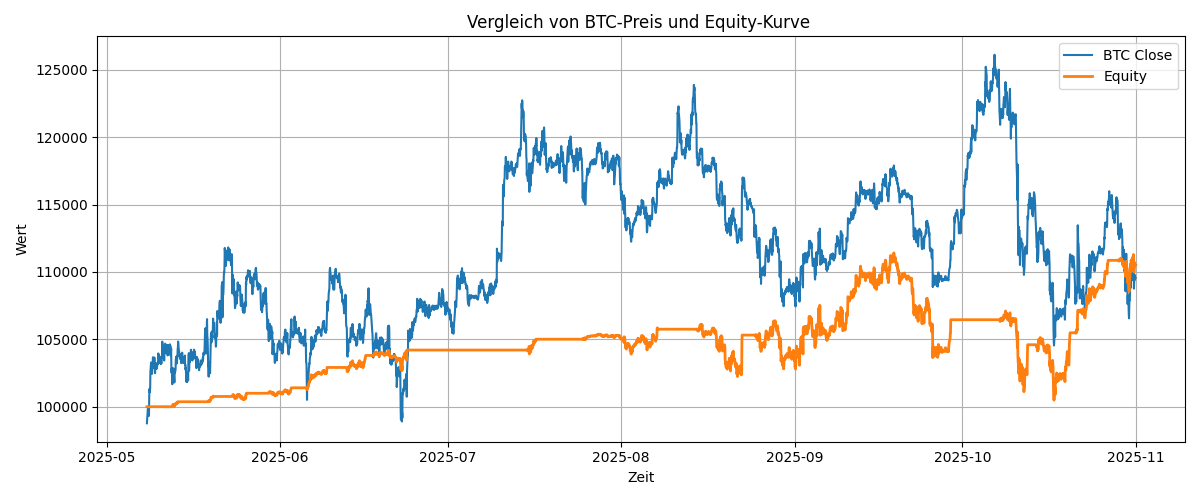
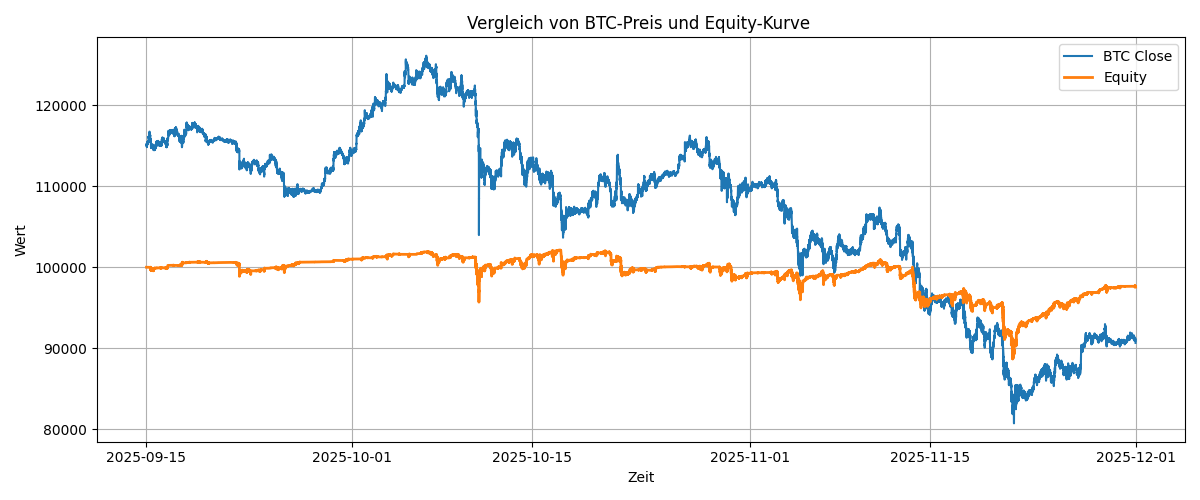
Backtesting beste variante

diff --git a/experiments/exp_1_2/scripts/09_model_deployment/paper_trading.py b/experiments/exp_1_2/scripts/09_model_deployment/paper_trading.py
@@ -1,0 +1,296 @@
+import os
+import yaml
+import importlib.util
+import torch
+import torch.nn as nn
+import time
+from datetime import datetime, timedelta, timezone
+import numpy as np
+from alpaca.trading.client import TradingClient
+from alpaca.trading.requests import MarketOrderRequest
+from alpaca.trading.enums import OrderSide, TimeInForce
+from binance.client import Client
+import pandas as pd
+from pathlib import Path
+import joblib
+
+BASE_DIR = Path(__file__).resolve().parent
+SCALER_DIR = BASE_DIR / "../../scaler"
+SCALER_DIR = SCALER_DIR.resolve()
+
+scaler = joblib.load(SCALER_DIR / "scaler.joblib")
+
+THIS_DIR = os.path.dirname(os.path.abspath(__file__))
+EXP_DIR = os.path.abspath(os.path.join(THIS_DIR, "..", ".."))
+FEATURES_PY_PATH = os.path.join(EXP_DIR, "scripts", "03_pre_split_prep", "features.py")
+params = yaml.safe_load(open("../../conf/params.yaml"))
+keys = yaml.safe_load(open("../../conf/keys.yaml"))
+
+spec = importlib.util.spec_from_file_location("features_module", FEATURES_PY_PATH)
+features_module = importlib.util.module_from_spec(spec) if spec else None
+if spec and spec.loader:
+    spec.loader.exec_module(features_module)
+else:
+    raise RuntimeError(f"Could not load features.py from {FEATURES_PY_PATH}")
+
+generate_features = getattr(features_module, "generate_features")
+
+symbols = params["DATA_ACQUISITION"]["SYMBOLS"]
+#Data Prep params
+ema_periods = params['DATA_PREP']['EMA_PERIODS']
+return_periods = params['DATA_PREP']['RETURN_PERIODS']
+rsi_atr_window = params['DATA_PREP']['RSI_ATR_WINDOW']
+
+#Data Model params
+model_path = params['MODELING']['SAVE_MODEL']
+seq = params['MODELING']['SEQUENCE']
+input_size = params['MODELING']['INPUT_SIZE']
+
+#Api keya
+api_key_id = keys['KEYS']['APCA-API-KEY-ID-Data']
+api_secret = keys['KEYS']['APCA-API-SECRET-KEY-Data']
+alpaca_base = "https://paper-api.alpaca.markets"
+
+#Nutzung von GPU oder CPU
+DEVICE = torch.device("cuda" if torch.cuda.is_available() else "cpu")
+
+class Net(nn.Module):
+    def __init__(self, input_size):
+        super(Net, self).__init__()
+        self.layer_1 = nn.LSTM(input_size=input_size, hidden_size=128, batch_first=True)
+        self.dropout_1 = nn.Dropout(0.3)
+        self.layer_2 = nn.LSTM(input_size=128, hidden_size=64, batch_first=True)
+        self.dropout_2 = nn.Dropout(0.3)
+
+        # Extra Dense Layers
+        self.layer_3 = nn.Linear(64, 32)
+        self.relu = nn.ReLU()
+        self.dropout_3 = nn.Dropout(0.3)
+        self.layer_4 = nn.Linear(32, 3)
+
+    def forward(self, x):
+        out, _ = self.layer_1(x)
+        out = self.dropout_1(out)
+        out, _ = self.layer_2(out)
+        out = out[:, -1, :]
+        out = self.dropout_2(out)
+        out = self.layer_3(out)
+        out = self.relu(out)
+        out = self.dropout_3(out)
+        out = self.layer_4(out)
+        return out
+
+net_trade = Net(input_size).to(DEVICE)
+#Modellgewichte laden
+net_trade.load_state_dict(torch.load(f"{model_path}/best_model.pt"))
+net_trade.eval()
+
+trading_client = TradingClient(api_key_id, api_secret, paper=True)
+
+def place_order(side, notional=None):
+
+    if side == OrderSide.BUY:
+
+        order_data = MarketOrderRequest(
+            symbol="BTCUSD",
+            notional=notional,
+            side=OrderSide.BUY,
+            time_in_force=TimeInForce.IOC
+        )
+
+    elif side == OrderSide.SELL:
+        try:
+            position = trading_client.get_open_position("BTCUSD")
+        except Exception:
+            print("No open position to sell")
+            return None
+
+        qty = float(position.qty)
+
+        if qty <= 0:
+            print("Position quantity is zero")
+            return None
+
+        order_data = MarketOrderRequest(
+            symbol="BTCUSD",
+            qty=qty,
+            side=OrderSide.SELL,
+            time_in_force=TimeInForce.IOC
+        )
+
+    else:
+        raise ValueError("Invalid order side")
+
+    order = trading_client.submit_order(order_data=order_data)
+
+    return {
+        "status": order.status,
+        "id": order.id,
+        "side": side.name,
+        "filled_qty": order.filled_qty,
+        "filled_avg_price": order.filled_avg_price
+    }
+
+
+def download_and_merge_btc_eth(lookback: int) -> pd.DataFrame:
+    client = Client(api_key=None, api_secret=None)
+
+    def download_binance_last_minutes(symbol, minutes=120):
+        klines = []
+
+        end_date = datetime.now(timezone.utc)
+        start_date = end_date - timedelta(minutes=minutes)
+
+        start_ts = int(start_date.timestamp() * 1000)
+        end_ts = int(end_date.timestamp() * 1000)
+
+        while start_ts < end_ts:
+            data = client.get_klines(
+                symbol=symbol,
+                interval=Client.KLINE_INTERVAL_1MINUTE,
+                startTime=start_ts,
+                endTime=end_ts,
+                limit=1000
+            )
+
+            if not data:
+                break
+
+            klines.extend(data)
+
+            # nächster Start = letzte Kerze + 1 Minute
+            start_ts = data[-1][0] + 60_000
+
+        df = pd.DataFrame(klines, columns=[
+            "open_time",
+            "open",
+            "high",
+            "low",
+            "close",
+            "volume",
+            "close_time",
+            "quote_asset_volume",
+            "number_of_trades",
+            "taker_buy_base_volume",
+            "taker_buy_quote_volume",
+            "ignore"
+        ])
+
+        # Zeitstempel & Datentypen
+        df["timestamp"] = pd.to_datetime(df["close_time"], unit="ms", utc=True)
+        df.set_index("timestamp", inplace=True)
+
+        df = df[["open", "high", "low", "close", "volume"]].astype(float)
+
+        return df
+
+    btc_df = download_binance_last_minutes(symbols[0])
+    eth_df = download_binance_last_minutes(symbols[1])
+
+    # ETH nur Close
+    eth_close = eth_df[["close"]].rename(columns={"close": "eth_close"})
+
+    merged_df = btc_df.join(eth_close, how="inner")
+    merged_df.sort_index(inplace=True)
+    return merged_df
+
+
+def set_features(df):
+    data_with_features, _ = generate_features(df, return_periods, ema_periods, rsi_atr_window)
+    data_complete = data_with_features.dropna().reset_index(drop=True)
+
+    expected_columns = list(scaler.feature_names_in_)
+    data_complete = data_complete[expected_columns]
+    X_scaled = scaler.transform(data_complete)
+    X_scaled_df = pd.DataFrame(X_scaled, columns=data_complete.columns)
+
+    columns_to_drop = ['open', 'high', 'low', 'eth_close', 'eth_return_5min', 'eth_return_15min', 'eth_return_60min','eth_return_90min']
+    X = X_scaled_df.drop(columns=columns_to_drop, errors='ignore')
+
+    return pd.DataFrame(X, columns=X.columns)
+
+
+def predict_signal(model, x_seq: np.ndarray):
+    x_tensor = torch.tensor(x_seq, dtype=torch.float32).unsqueeze(0).to(DEVICE)
+
+    with torch.no_grad():
+        outputs = model(x_tensor)
+        probs = torch.softmax(outputs, dim=1)[0]
+        print(probs)
+
+    prob_down = probs[0].item()
+    prob_hold = probs[1].item()
+    prob_up = probs[2].item()
+    print("prob_down:", prob_down)
+    print("prob_hold:", prob_hold)
+    print("prob_up:", prob_up)
+
+    predicted = torch.argmax(probs).item()
+    diff = abs(prob_up - prob_down) * 100
+    print(diff)
+
+    return predicted, prob_down, prob_hold, prob_up, diff
+
+def has_position(symbol="BTCUSD") -> bool:
+    try:
+        trading_client.get_open_position(symbol)
+        return True
+    except Exception:
+        return False
+
+def run_trading_step():
+    raw_data = download_and_merge_btc_eth(lookback=120)
+    features_df = set_features(raw_data)
+    if len(features_df) < seq:
+        print("Not enough data for sequence yet")
+        return
+
+    x_seq = features_df.tail(seq).values
+    predicted, p_down, p_hold, p_up, diff = predict_signal(net_trade, x_seq)
+
+    print(f"Prediction: {predicted} | diff={diff:.2f}")
+
+    if predicted in [0, 2] and diff >= 5:
+        account = trading_client.get_account()
+        if account.trading_blocked:
+            print("Account is currently restricted from trading.")
+            return
+
+        if predicted == 2:
+            print("🟢 BUY signal")
+            buying_power = float(trading_client.get_account().buying_power)
+            if buying_power > 100:
+                notional = round(buying_power * (0.05 if has_position("BTCUSD") else 0.10),2)
+                place_order(OrderSide.BUY, notional=notional)
+            else:
+                print("Not enough buying power.")
+
+        elif predicted == 0:
+            print("🔴 SELL signal")
+            place_order(OrderSide.SELL)
+
+    else:
+        print("⏸ HOLD")
+
+
+
+# -----------------------------
+# Main flow
+# -----------------------------
+
+last_trade_hour = None
+
+while True:
+    now = datetime.now(timezone.utc)
+
+    # Slot auf 30-Minuten-Intervalle runden (00 oder 30)
+    minute_slot = 0 if now.minute < 30 else 30
+    current_slot = now.replace(minute=minute_slot, second=0, microsecond=0)
+
+    # Nur einmal pro Slot handeln, sobald wir im Slot sind
+    if last_trade_slot != current_slot and now.minute % 30 != 0:
+        last_trade_slot = current_slot
+        print(f"\nRunning trading step at {now}")
+        run_trading_step()
+
+    time.sleep(30)

diff --git a/experiments/exp_1_2/scripts/09_model_deployment/backtesting.py b/experiments/exp_1_2/scripts/09_model_deployment/backtesting.py
@@ -161,7 +161,7 @@ def setBuyOrder(prob_up, row_index, account, positions, timestamp, buying_count)
     else:
         buy_pct = 0.05
 
-    if buying_count < 11:  # UP - KAUFEN
+    if buying_count < 21:  # UP - KAUFEN
         trades[timestamp] = "BUY"
         if len(positions) == 0:
             # Erste Position öffnen
@@ -243,31 +243,35 @@ with torch.no_grad():
             predicted = torch.argmax(probs[i]).item()
             diff = abs(prob_up - prob_down) * 100
             print(f"Diff: {diff:.2f}")
+            timestamp = mapping.loc[row_index, "timestamp"]
+            ts = pd.Timestamp(timestamp)
+            if ts.minute in (0, 15, 30, 45):
 
-            # Nur wenn Up oder Down predicted (nicht Hold)
-            if predicted == 2 and diff >= 1:  # 0=Down, 2=Up
-                print("---Model---")
-                timestamp = mapping.loc[row_index, "timestamp"]
-                equity_timestamps.append(timestamp)
-                account_model, equity, buying_count = setBuyOrder(prob_up, row_index, account_model, positions_model, timestamp, buying_count)
-                equity_curve.append(equity)
-                signals_count += 1
-                holding_count = 0
+                # Nur wenn Up oder Down predicted (nicht Hold)
+                if (predicted == 2 and diff >= 1) or (holding_count > 10 and prob_up > prob_down):  # 0=Down, 2=Up
+                    print("---Model---")
+                    equity_timestamps.append(timestamp)
+                    account_model, equity, buying_count = setBuyOrder(prob_up, row_index, account_model, positions_model, timestamp, buying_count)
+                    equity_curve.append(equity)
+                    signals_count += 1
+                    holding_count = 0
 
-            elif (predicted == 0 and diff >= 1) or holding_count > 15:
-                print("---Model---")
-                timestamp = mapping.loc[row_index, "timestamp"]
-                equity_timestamps.append(timestamp)
-                account_model, equity, buying_count = setSellOrder(row_index, account_model, positions_model,timestamp, buying_count)
-                equity_curve.append(equity)
-                holding_count = 0
+                elif (predicted == 0 and diff >= 1) or (holding_count > 10 and prob_up < prob_down):
+                    print("---Model---")
+                    equity_timestamps.append(timestamp)
+                    account_model, equity, buying_count = setSellOrder(row_index, account_model, positions_model,timestamp, buying_count)
+                    equity_curve.append(equity)
+                    holding_count = 0
 
+                else:
+                    print("---HOLD---")
+                    holding_count += 1
+                    equity = calculate_equity(row_index, positions_model, account_model)
+                    equity_curve.append(equity)
+                    equity_timestamps.append(timestamp)
             else:
-                print("---HOLD---")
-                holding_count += 1
                 equity = calculate_equity(row_index, positions_model, account_model)
                 equity_curve.append(equity)
-                timestamp = mapping.loc[row_index, "timestamp"]
                 equity_timestamps.append(timestamp)
 
 print("-----------------------------------------------")
